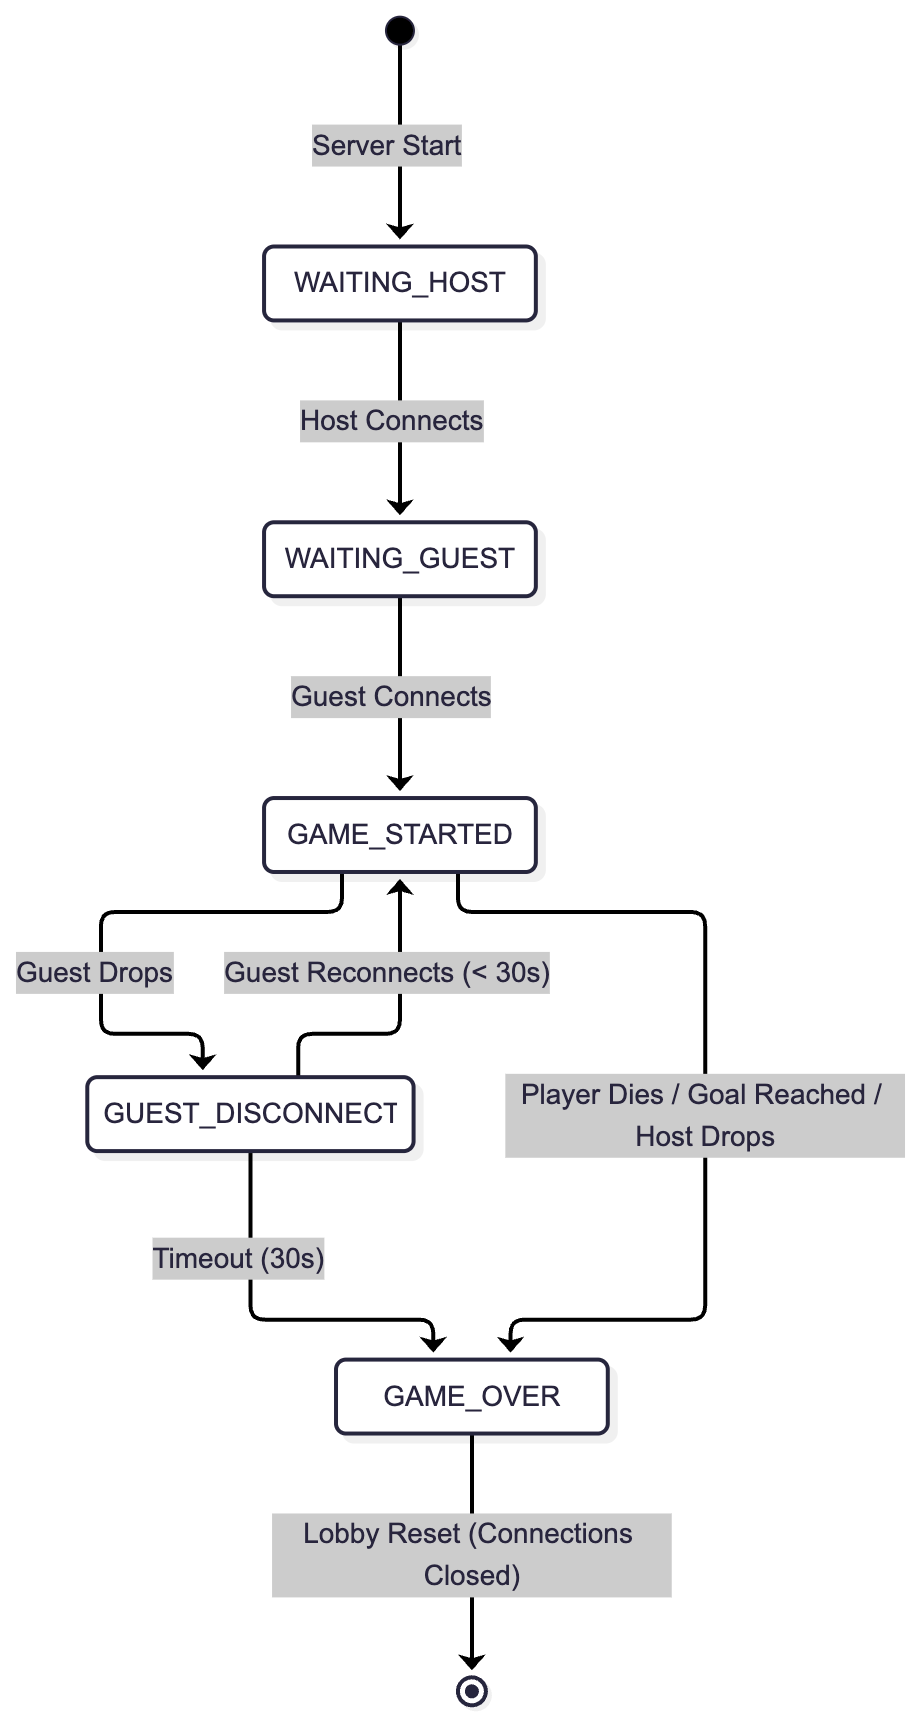
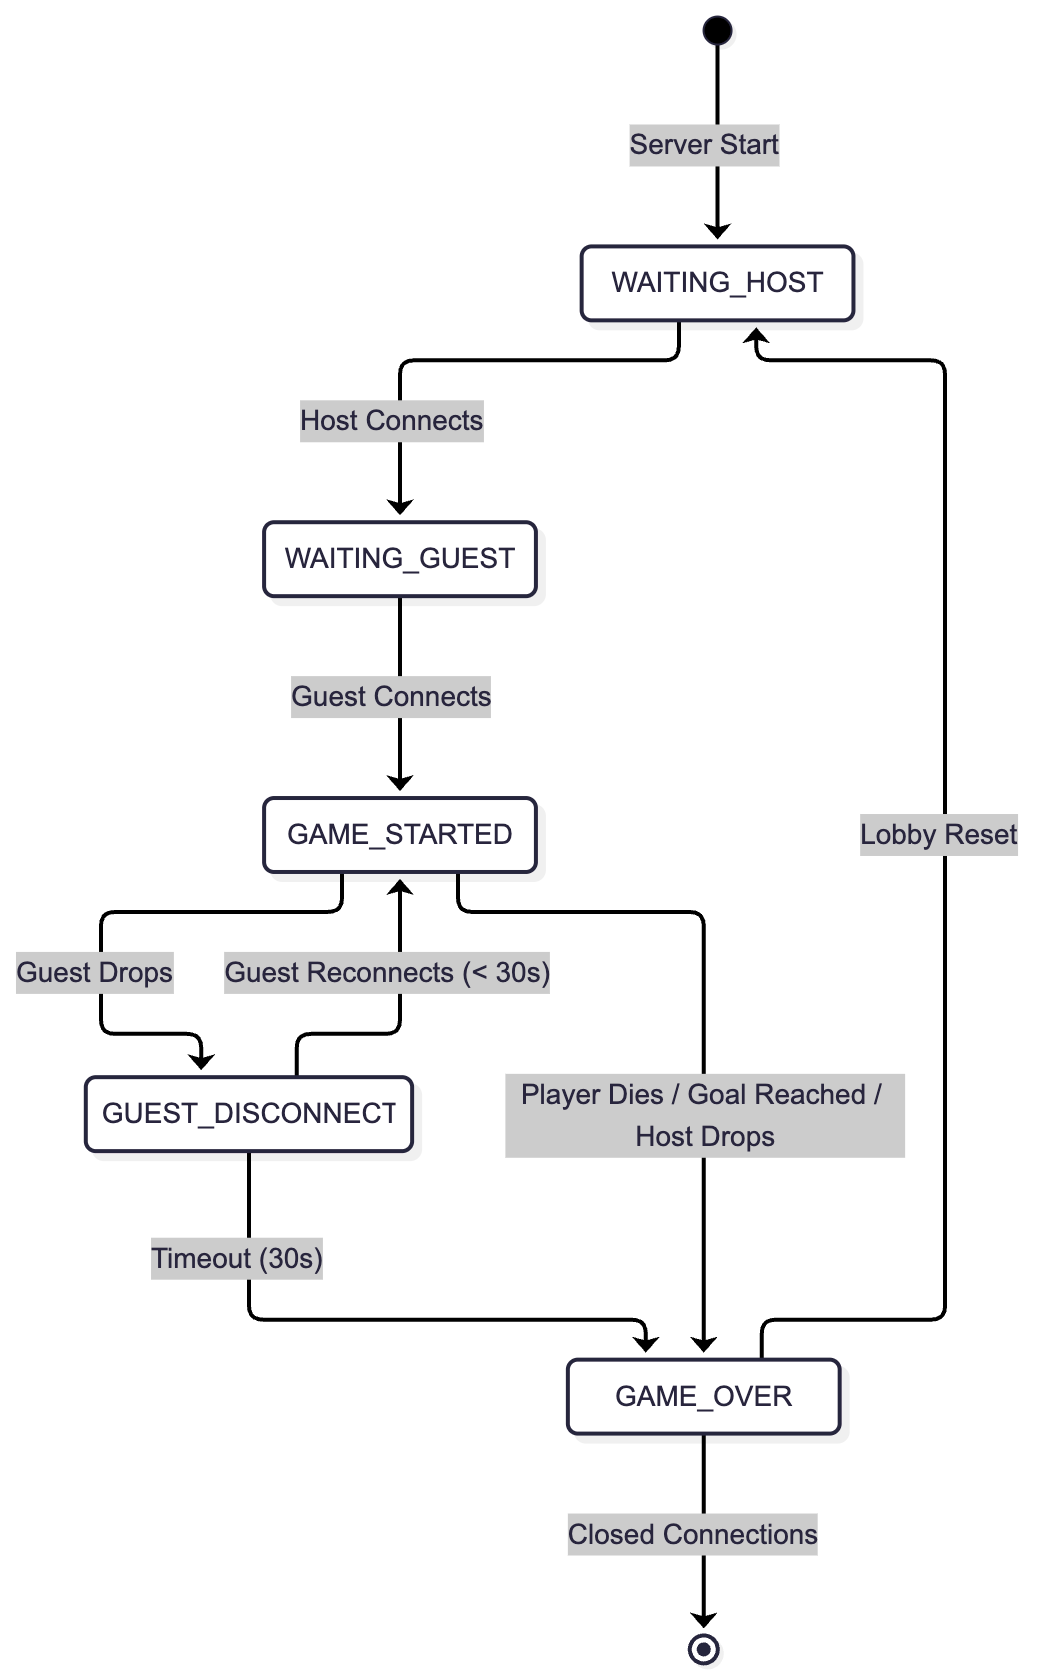
docs(report): improve section 3.5

diff --git a/docs/report.md b/docs/report.md
@@ -238,31 +238,31 @@ The overall state of the application is decoupled into two distinct layers:
 Communication relies on serialized JSON messages over WebSockets and UDP datagrams, categorized by interaction type:
 
 1. **Peer Discovery (UDP)**: Messages exchanged outside the WebSocket channel to resolve local network topology.
-    * `DISCOVER` (Guest → LAN): Client request broadcasted to search for available game sessions.
-    * `LOBBY` (Host → LAN): Host reply advertising its WebSocket port, lobby ID, and guest slot availability.
+  * `DISCOVER` (Guest → LAN): Client request broadcasted to search for available game sessions.
+  * `LOBBY` (Host → LAN): Host reply advertising its WebSocket port, lobby ID, and guest slot availability.
 
 2. **Session and Fault Tolerance (Server → Client)**: Messages orchestrating the match lifecycle, role delegation, and
    managing connection drops.
-    * `ROLE_ASSIGNMENT`: Instructs a newly connected client of its domain role (`HOST`, `GUEST`, or `SPECTATOR`).
-    * `GAME_START`: Commands clients to instantiate the ECS world and begin the simulation loop.
-    * `GUEST_DISCONNECTED`: Notifies clients of a TCP connection drop, triggering a 30-second fault-tolerance timer on
-      the server.
-    * `GUEST_RECONNECTED`: Signals the successful recovery of the guest's connection within the allowed time frame.
-    * `RESTORE_STATE`: Authoritative event forcing a reconnected Guest to sync back to specific coordinates and lives to
-      safely resume the session.
-    * `GAME_OVER`: Broadcasts the definitive termination of the match, carrying the reason and the winner's name.
+  * `ROLE_ASSIGNMENT`: Instructs a newly connected client of its domain role (`HOST`, `GUEST`, or `SPECTATOR`).
+  * `GAME_START`: Commands clients to instantiate the ECS world and begin the simulation loop.
+  * `GUEST_DISCONNECTED`: Notifies clients of a TCP connection drop, triggering a 30-second fault-tolerance timer on
+    the server.
+  * `GUEST_RECONNECTED`: Signals the successful recovery of the guest's connection within the allowed time frame.
+  * `RESTORE_STATE`: Authoritative event forcing a reconnected Guest to sync back to specific coordinates and lives to
+    safely resume the session.
+  * `GAME_OVER`: Broadcasts the definitive termination of the match, carrying the reason and the winner's name.
 
 3. **Game State and Commands (Client ↔ Server)**: High-frequency state payloads and authoritative triggers mapping
    in-game events to the network.
-    * `HOST_UPDATE`: Broadcasts the Host's avatar state alongside a comprehensive list of all active dynamic obstacles
-      (`BarrelData`).
-    * `GUEST_UPDATE`: Broadcasts exclusively the Guest's avatar state.
-    * `PLAYER_DIED`: Triggered locally when a player's health drops to zero. The server intercepts this and broadcasts a
-      `GAME_OVER` event.
-    * `GOAL_REACHED`: Triggered locally when a player successfully collides with the final objective. The server
-      intercepts it and declares the match's end via `GAME_OVER`.
-    * `ENTITY_DESTROYED`: Event instructing remote clients to remove a specific network entity from their local ECS
-      world.
+  * `HOST_UPDATE`: Broadcasts the Host's avatar state alongside a comprehensive list of all active dynamic obstacles
+    (`BarrelData`).
+  * `GUEST_UPDATE`: Broadcasts exclusively the Guest's avatar state.
+  * `PLAYER_DIED`: Triggered locally when a player's health drops to zero. The server intercepts this and broadcasts a
+    `GAME_OVER` event.
+  * `GOAL_REACHED`: Triggered locally when a player successfully collides with the final objective. The server
+    intercepts it and declares the match's end via `GAME_OVER`.
+  * `ENTITY_DESTROYED`: Event instructing remote clients to remove a specific network entity from their local ECS
+    world.
 
 ![Class Diagram](./images/class_diagram.png)
 
@@ -311,22 +311,51 @@ session.
 
 ### 3.5 Behaviour
 
-- **Individual Component Behavior:**
-    - The **Host Client** is highly stateful and authoritative. It responds to local keyboard events by updating its own
-      physics and spawning barrels on an internal timer (`SpawnSystem`). It then blindly pushes this definitive state
-      outwards.
-    - The **Guest Client** is stateful but semi-authoritative. It computes its own player physics independently in
-      response to local keyboard events, but acts purely reactively regarding barrels, spawning or removing them locally
-      only when instructed by a `HOST_UPDATE` message via the `StateReceiverSystem`.
-    - The **Spectator Client** is passive and purely reactive. It does not update the `World` based on elapsed time
-      (`deltaTime`), but strictly overwrites entity positions based on incoming network messages to render the current
-      frame.
-- **State Updating Mechanism:** The state is updated continuously via the ECS architecture. During each frame of the
-  `AnimationTimer`, the `WorldImpl.update()` method iterates through all active `GameSystem`s (e.g., `MovementSystem`,
-  `PhysicsSystem`). The `StateReceiverSystem` is explicitly in charge of capturing incoming network updates from the
-  Vert.x `EventBus` and applying those external coordinate changes to the local entities before the next render cycle.
+The system behavior is decoupled between the central server's finite state machine, which manages the session lifecycle,
+and the clients' execution loops, which handle the real-time simulation.
+
+#### Server Finite State Machine (Lobby Lifecycle)
+
+The central `LobbyVerticle` acts as the definitive Finite State Machine (FSM) orchestrating the match. As illustrated in
+the State Diagram, it transitions through several key phases based on network events:
+
+1. **WAITING_HOST**: The initial state upon server startup. The lobby is empty and waits for the first WebSocket
+   connection to assign the authoritative Host role.
+2. **WAITING_GUEST**: Once the Host connects, the server waits for a second active player to join the session.
+   Spectators can join during this phase without triggering transitions.
+3. **GAME_STARTED**: Triggered when the Guest connects. The server broadcasts the `GAME_START` event, and active
+   state-update routing (barrels, positions) begins.
+4. **GUEST_DISCONNECT**: A transient fault-tolerance state. If the Guest drops, the server pauses updates and starts a
+   30-second timer.
+
+- If the Guest reconnects within the window, the FSM returns to `GAME_STARTED`.
+- If the timeout expires, it transitions to `GAME_OVER`.
+
+5. **GAME_OVER**: The terminal state. Triggered by a timeout, a player's death, reaching the goal, or an unrecoverable
+   Host disconnection. The server broadcasts the results and flushes the state (Lobby Reset), becoming available for new
+   connections.
 
 ![State Diagram](./images/state_diagram.png)
+
+#### Client-Side Behavior
+
+While the server manages the high-level session, the clients handle the continuous ECS simulation:
+
+- **Individual Component Behavior:**
+  - The **Host Client** is highly stateful and authoritative. It responds to local keyboard events by updating its own
+    physics and spawning barrels on an internal timer (`SpawnSystem`). It then blindly pushes this definitive state
+    outwards.
+  - The **Guest Client** is stateful but semi-authoritative. It computes its own player physics independently in
+    response to local keyboard events, but acts purely reactively regarding barrels, spawning or removing them locally
+    only when instructed by a `HOST_UPDATE` message via the `StateReceiverSystem`.
+  - The **Spectator Client** is passive and purely reactive. It does not update the `World` based on elapsed time
+    (`deltaTime`), but strictly overwrites entity positions based on incoming network messages to render the current
+    frame.
+- **State Updating Mechanism:** The state is updated continuously via the ECS architecture. During each frame of the
+  JavaFX `AnimationTimer`, the `WorldImpl.update()` method iterates through all active `GameSystem`s (e.g.,
+  `MovementSystem`, `PhysicsSystem`). The `StateReceiverSystem` is explicitly in charge of capturing incoming network
+  updates from the Vert.x `EventBus` and applying those external coordinate changes to the local entities before the
+  next render cycle.
 
 ### 3.6 Data and Consistency Issues
 
@@ -367,13 +396,13 @@ session.
   favor of the Host.
 - **Error Handling and Component Failure:** The system relies on event-driven error handling to prevent deadlocks and
   ghost sessions:
-    - **Host Failure:** Since the Host holds the authoritative state of the game world, a sudden disconnection of the
-      Host's socket is unrecoverable. The server detects the closure, immediately broadcasts a `GAME_OVER` message (with
-      the reason `HOST_DISCONNECTED`) to the Guest and Spectators, and flushes the lobby state, reopening port
-      connections for a brand-new match.
-    - **Spectator Failure:** The system enforces strict isolation for passive observers. If a Spectator disconnects or
-      crashes, the server simply evicts their socket from the internal `spectators` array. This failure is completely
-      transparent to the active players and does not impact the game loop or the server's stability.
+  - **Host Failure:** Since the Host holds the authoritative state of the game world, a sudden disconnection of the
+    Host's socket is unrecoverable. The server detects the closure, immediately broadcasts a `GAME_OVER` message (with
+    the reason `HOST_DISCONNECTED`) to the Guest and Spectators, and flushes the lobby state, reopening port
+    connections for a brand-new match.
+  - **Spectator Failure:** The system enforces strict isolation for passive observers. If a Spectator disconnects or
+    crashes, the server simply evicts their socket from the internal `spectators` array. This failure is completely
+    transparent to the active players and does not impact the game loop or the server's stability.
 
 ### 3.8 Availability
 
@@ -406,15 +435,15 @@ session.
 - **Authorization:** While formal authentication is absent, a rudimentary form of Role-Based Access Control (RBAC) is
   enforced by the `LobbyVerticle` through connection routing and temporal ordering. Access rights are rigidly determined
   by the URI path utilized during the initial handshake:
-    - **HOST Role:** Assigned to the first WebSocket connecting to the root `/play` endpoint. This role is granted the
-      highest authorization, including the rights to dictate global game state, spawn barrels, and trigger game-over
-      conditions.
-    - **GUEST Role:** Assigned to the second WebSocket connecting to the `/play` endpoint. This role is strictly
-      authorized to broadcast updates regarding its own specific entity (the Guest player avatar) and cannot manipulate
-      the environment. Any attempt by a Guest to spawn a barrel would be ignored by the server's routing logic.
-    - **SPECTATOR Role:** Assigned to any WebSocket connecting to the `/spectate` endpoint. This role is granted
-      strictly read-only access. The server pushes updates to these clients but does not listen to or process any
-      state-update messages originating from them.
+  - **HOST Role:** Assigned to the first WebSocket connecting to the root `/play` endpoint. This role is granted the
+    highest authorization, including the rights to dictate global game state, spawn barrels, and trigger game-over
+    conditions.
+  - **GUEST Role:** Assigned to the second WebSocket connecting to the `/play` endpoint. This role is strictly
+    authorized to broadcast updates regarding its own specific entity (the Guest player avatar) and cannot manipulate
+    the environment. Any attempt by a Guest to spawn a barrel would be ignored by the server's routing logic.
+  - **SPECTATOR Role:** Assigned to any WebSocket connecting to the `/spectate` endpoint. This role is granted
+    strictly read-only access. The server pushes updates to these clients but does not listen to or process any
+    state-update messages originating from them.
 - **Cryptographic Schemas:** No cryptographic schemas, token verification, or in-transit data encryption protocols are
   employed. Messages are serialized as plaintext JSON and transmitted over standard, unencrypted WebSockets (`ws://`
   rather than `wss://`). This is a deliberate architectural trade-off: the game processes no sensitive personal data
@@ -427,13 +456,13 @@ This chapter details the specific technology-dependent choices made to realize t
 network protocols, data serialization, and the frameworks exploited.
 
 - **Network Protocols:** The system employs a dual-protocol approach to handle different networking phases efficiently:
-    - **UDP (User Datagram Protocol):** Utilized exclusively for the initial **Service Discovery** phase and split-brain
-      conflict resolution. The `LobbyVerticle` broadcasts its presence via UDP datagrams on port 8081. This allows
-      clients to dynamically discover active lobbies on the Local Area Network without requiring manual IP entry.
-    - **WebSockets (WS) over TCP:** Utilized for all continuous in-game communication. While UDP is traditionally
-      favored for fast-paced games, WebSockets were chosen because they provide a persistent, full-duplex communication
-      channel with guaranteed, ordered delivery out-of-the-box. This drastically simplifies the implementation for a
-      local area network (LAN) environment, ensuring the server can reliably push 60 FPS state updates to all clients.
+  - **UDP (User Datagram Protocol):** Utilized exclusively for the initial **Service Discovery** phase and split-brain
+    conflict resolution. The `LobbyVerticle` broadcasts its presence via UDP datagrams on port 8081. This allows
+    clients to dynamically discover active lobbies on the Local Area Network without requiring manual IP entry.
+  - **WebSockets (WS) over TCP:** Utilized for all continuous in-game communication. While UDP is traditionally
+    favored for fast-paced games, WebSockets were chosen because they provide a persistent, full-duplex communication
+    channel with guaranteed, ordered delivery out-of-the-box. This drastically simplifies the implementation for a
+    local area network (LAN) environment, ensuring the server can reliably push 60 FPS state updates to all clients.
 - **In-transit Data Representation:** All data exchanged over the network is serialized and represented in **JSON**. At
   the implementation level, the system leverages Vert.x's built-in `JsonObject` to automatically map incoming and
   outgoing JSON payloads directly to immutable Java `record` classes (e.g., `HostUpdateMessage`, `GuestUpdateMessage`).
@@ -457,12 +486,12 @@ The project relies on a specific technology stack to achieve its concurrency and
 - **Eclipse Vert.x:** This is the core framework used for networking and concurrency. Vert.x is built on a non-blocking,
   event-driven architecture (using the Reactor pattern), which allows it to handle multiple concurrent connections with
   minimal thread overhead.
-    - The `LobbyVerticle` acts as the central HTTP/WebSocket server.
-    - The `DiscoveryResponder` and `DiscoveryClient` utilize Vert.x's `DatagramSocket` for UDP broadcasting.
-    - The internal **Vert.x EventBus** is heavily exploited as the backbone of the application to decouple the network
-      layer from the game logic layer. Incoming network messages are published to specific EventBus addresses (e.g.,
-      `inbound.guest_update`), where the ECS `StateReceiverSystem` consumes them asynchronously, preventing network
-      operations from blocking the main game loop.
+  - The `LobbyVerticle` acts as the central HTTP/WebSocket server.
+  - The `DiscoveryResponder` and `DiscoveryClient` utilize Vert.x's `DatagramSocket` for UDP broadcasting.
+  - The internal **Vert.x EventBus** is heavily exploited as the backbone of the application to decouple the network
+    layer from the game logic layer. Incoming network messages are published to specific EventBus addresses (e.g.,
+    `inbound.guest_update`), where the ECS `StateReceiverSystem` consumes them asynchronously, preventing network
+    operations from blocking the main game loop.
 - **JavaFX:** Used exclusively for the client-side graphical user interface (GUI) and rendering. The game does not use
   traditional JavaFX UI controls for the gameplay; instead, it utilizes a raw `Canvas` and a `GraphicsContext` to
   manually draw and clear sprite sheets frame-by-frame. The core game loop is driven by a JavaFX `AnimationTimer`, which
@@ -489,34 +518,34 @@ ensuring that every pull request is validated before being merged. Tests can be 
 - **Unit Testing:**
   Individual components, specifically the core ECS architecture and pure execution logic, were strictly unit-tested in
   isolation.
-    - **Rationale:** To verify that the custom ECS engine, entity factories, game physics, and boundary limitations work
-      deterministically without spinning up the network or the graphical interface.
-    - **Implementation:** `WorldTest` verifies the core ECS mechanics (adding/removing entities and components).
-      `FactoryTest` ensures entities (like Player and Barrel) are assembled with the correct components. Furthermore,
-      tests such as `PhysicsSystemTest`, `GravitySystemTest`, and `MovementSystemTest` initialize a mock `World`, inject
-      entities, manually invoke the system's `update(deltaTime)` method, and assert the resulting state.
-      `BoundariesSystemTest` acts as a corner-case test by placing an entity outside the screen coordinates and
-      asserting that the system clamps its position back within the allowed arena. The `EventDispatchSystemTest` ensures
-      ephemeral event components are correctly cleared at the end of the update cycle.
-    - **Requirements Tested:** Verifies the functional requirements related to horizontal movement, jumping, and
-      collision detection, as well as the modularity non-functional requirement.
+  - **Rationale:** To verify that the custom ECS engine, entity factories, game physics, and boundary limitations work
+    deterministically without spinning up the network or the graphical interface.
+  - **Implementation:** `WorldTest` verifies the core ECS mechanics (adding/removing entities and components).
+    `FactoryTest` ensures entities (like Player and Barrel) are assembled with the correct components. Furthermore,
+    tests such as `PhysicsSystemTest`, `GravitySystemTest`, and `MovementSystemTest` initialize a mock `World`, inject
+    entities, manually invoke the system's `update(deltaTime)` method, and assert the resulting state.
+    `BoundariesSystemTest` acts as a corner-case test by placing an entity outside the screen coordinates and
+    asserting that the system clamps its position back within the allowed arena. The `EventDispatchSystemTest` ensures
+    ephemeral event components are correctly cleared at the end of the update cycle.
+  - **Requirements Tested:** Verifies the functional requirements related to horizontal movement, jumping, and
+    collision detection, as well as the modularity non-functional requirement.
 
 - **Integration Testing:**
   Communication and interaction among components, particularly between the network layer and the ECS engine, were tested
   using integration tests.
-    - **Rationale:** To verify that the Vert.x components correctly bind to ports, handle WebSocket handshakes, execute
-      UDP broadcasts, route messages through the EventBus, and correctly interact with the game state.
-    - **Implementation:** The `LobbyVerticleTest` and `ClientVerticleTest` utilize `VertxTestContext` to deploy the
-      server and client verticles in a sandboxed, asynchronous test environment to verify automatic role assignment.
-      Crucially, the `DiscoveryResponderTest` simulates a UDP datagram socket to validate the local network discovery
-      handshake and reply mechanism. `StateReceiverSystemTest` and `NetworkBroadcastSystemTest` prove the bidirectional
-      integration between the network and the game loop, verifying that messages arriving on the EventBus update the
-      local ECS entities and that outgoing state payloads (Host and Guest) are correctly formatted. Finally,
-      `EndGameScenariosTest`
-      and `WinSystemTest` simulate the integration between the collision logic and terminal network broadcasts.
-    - **Corner Cases Tested:** The tests specifically validate error handling, split-brain lobby prioritization, and
-      network partitions (e.g., simulating a client disconnection to ensure the server gracefully pauses the game or
-      resolves the match state).
+  - **Rationale:** To verify that the Vert.x components correctly bind to ports, handle WebSocket handshakes, execute
+    UDP broadcasts, route messages through the EventBus, and correctly interact with the game state.
+  - **Implementation:** The `LobbyVerticleTest` and `ClientVerticleTest` utilize `VertxTestContext` to deploy the
+    server and client verticles in a sandboxed, asynchronous test environment to verify automatic role assignment.
+    Crucially, the `DiscoveryResponderTest` simulates a UDP datagram socket to validate the local network discovery
+    handshake and reply mechanism. `StateReceiverSystemTest` and `NetworkBroadcastSystemTest` prove the bidirectional
+    integration between the network and the game loop, verifying that messages arriving on the EventBus update the
+    local ECS entities and that outgoing state payloads (Host and Guest) are correctly formatted. Finally,
+    `EndGameScenariosTest`
+    and `WinSystemTest` simulate the integration between the collision logic and terminal network broadcasts.
+  - **Corner Cases Tested:** The tests specifically validate error handling, split-brain lobby prioritization, and
+    network partitions (e.g., simulating a client disconnection to ensure the server gracefully pauses the game or
+    resolves the match state).
 
 - **End-to-End (E2E) Testing:**
   Fully automated End-to-End testing spinning up the production server, launching multiple headless JavaFX client
@@ -530,14 +559,14 @@ Manual testing was a critical phase of the validation process, conducted in a pr
 environment with multiple physical machines.
 
 - **What was tested:**
-    - **UI/UX Flow:** The transition from the Main Menu to the active game, and finally to the Game Over screen.
-    - **Network Synchronization:** The visual coherence of the game state between the Host, Guest, and Spectator
-      screens. This involved verifying that barrel spawns and player movements did not suffer from "rubber-banding" or
-      visual desynchronization.
-    - **Gameplay Feel:** The responsiveness of the keyboard inputs (jump height, movement speed) and the consistency of
-      the 60 FPS rendering loop.
-    - **Fault Recovery:** Physically disconnecting the Wi-Fi on the Guest machine to verify that the game paused, the
-      30-second timer started on the server, and the state was correctly restored upon reconnection.
+  - **UI/UX Flow:** The transition from the Main Menu to the active game, and finally to the Game Over screen.
+  - **Network Synchronization:** The visual coherence of the game state between the Host, Guest, and Spectator
+    screens. This involved verifying that barrel spawns and player movements did not suffer from "rubber-banding" or
+    visual desynchronization.
+  - **Gameplay Feel:** The responsiveness of the keyboard inputs (jump height, movement speed) and the consistency of
+    the 60 FPS rendering loop.
+  - **Fault Recovery:** Physically disconnecting the Wi-Fi on the Guest machine to verify that the game paused, the
+    30-second timer started on the server, and the state was correctly restored upon reconnection.
 
 - **Why wasn't it automatic?**
   While the mathematical determinism of the physics engine and the routing logic of the network were easily covered by
